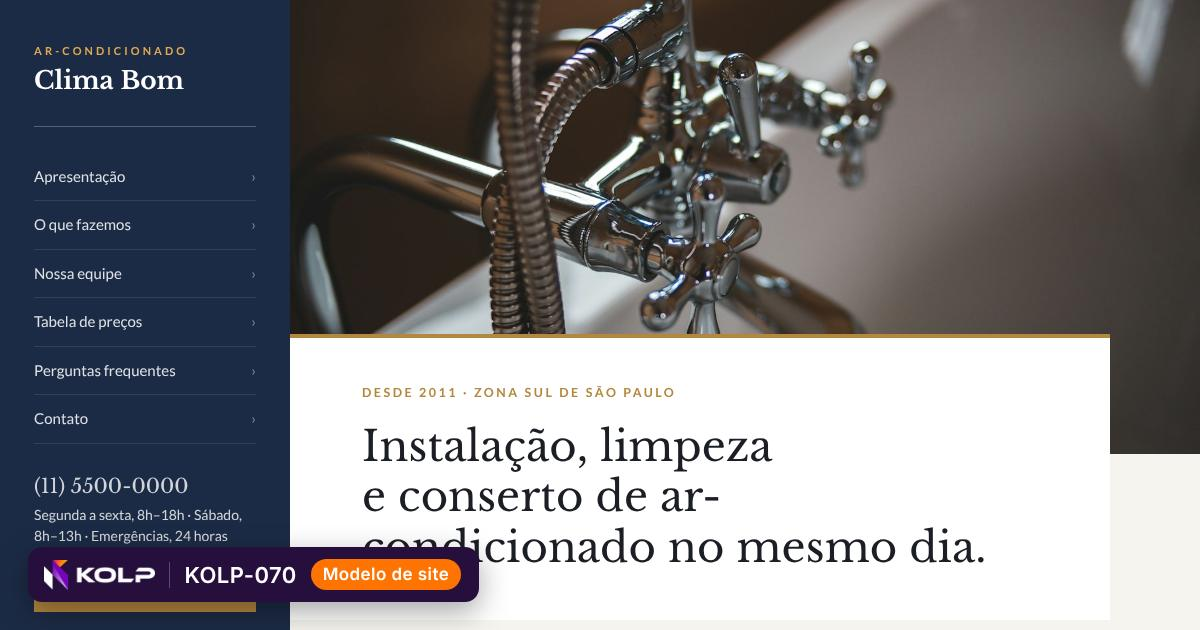
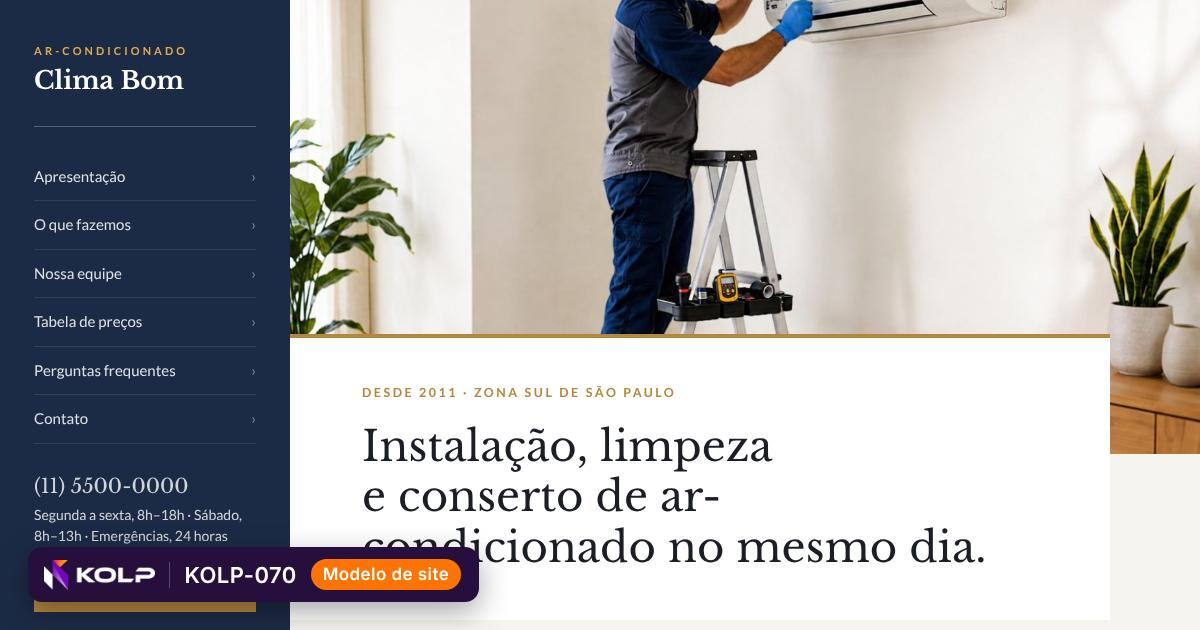
Bring servicos to 10 photos
Claude-Session: https://claude.ai/code/session_0151Yi9K8yWSyYvoKWm1KgPz

diff --git a/kolp-modelos/demo/servicos-07/index.html b/kolp-modelos/demo/servicos-07/index.html
@@ -35,7 +35,7 @@
       <p class="lide">Atendemos casas, apartamentos, lojas e condomínios, de segunda a sábado, com plantão para emergências.</p>
       <div class="acoes"><a class="botao" href="#contato">Pedir orçamento</a><a class="elo" href="#servicos">Ver serviços e preços</a></div>
     </div>
-    <figure class="arco"><img src="../../fotos/servicos/1.jpg" alt="" width="1400" height="930"><figcaption>Desde 2011</figcaption></figure>
+    <figure class="arco"><img src="../../fotos/servicos/7.jpg" alt="" width="1400" height="930"><figcaption>Desde 2011</figcaption></figure>
   </div>
   <div class="largura"><dl class="indices"><div><dd>13</dd><dt>anos de serviço</dt></div><div><dd>9.800</dd><dt>atendimentos realizados</dt></div><div><dd>2 h</dd><dt>tempo médio de chegada em emergências</dt></div><div><dd>4,9</dd><dt>nota média no Google</dt></div></dl></div>
   </section>
@@ -43,7 +43,7 @@
     <header class="topo rev"><h2>O que fazemos</h2><p>Uma equipe só para todos os reparos da casa ou do prédio.</p></header>
     <ol class="cartoes"><li class="rev"><h3>Elétrica</h3><p>Troca de disjuntores, tomadas, chuveiros, quadros de luz e instalação de luminárias.</p></li><li class="rev"><h3>Hidráulica</h3><p>Vazamentos, troca de registros, torneiras, válvulas e caixas acopladas.</p></li><li class="rev"><h3>Pintura</h3><p>Paredes, tetos, portas e fachadas, com proteção de móveis e pisos.</p></li><li class="rev"><h3>Montagem e instalação</h3><p>Móveis, prateleiras, suportes de TV, varais, cortinas e persianas.</p></li><li class="rev"><h3>Ar-condicionado</h3><p>Instalação, limpeza, recarga de gás e manutenção preventiva.</p></li><li class="rev"><h3>Pequenas reformas</h3><p>Banheiros, cozinhas, troca de piso e revestimento.</p></li></ol>
   </div></section>
-  <section class="faixa rev"><img src="../../fotos/servicos/2.jpg" alt="" width="1400" height="930" loading="lazy"><p>“Chegamos na hora marcada, deixamos tudo limpo e damos garantia por escrito”</p></section>
+  <section class="faixa rev"><img src="../../fotos/servicos/8.jpg" alt="" width="1400" height="930" loading="lazy"><p>“Chegamos na hora marcada, deixamos tudo limpo e damos garantia por escrito”</p></section>
   <section class="precos" id="precos"><div class="largura precos-grade">
     <div class="precos-lado rev"><h2>Tabela de preços</h2><p>Mão de obra de referência. Materiais são orçados à parte.</p><a class="botao" href="#contato">Pedir orçamento</a></div>
     <div class="rev"><details open><summary>Elétrica</summary><ul><li><div><b>Troca de chuveiro</b><span>Com teste de fiação</span></div><strong>R$ 120</strong></li><li><div><b>Instalação de luminária</b><span>Por ponto</span></div><strong>R$ 90</strong></li><li><div><b>Troca de disjuntor</b><span>Por unidade</span></div><strong>R$ 110</strong></li><li><div><b>Revisão do quadro de luz</b><span>Com laudo</span></div><strong>R$ 280</strong></li></ul></details><details><summary>Hidráulica</summary><ul><li><div><b>Reparo de vazamento</b><span>Aparente</span></div><strong>R$ 150</strong></li><li><div><b>Troca de torneira</b><span>Com vedação</span></div><strong>R$ 95</strong></li><li><div><b>Desentupimento</b><span>Pia ou ralo</span></div><strong>R$ 180</strong></li></ul></details><details><summary>Casa</summary><ul><li><div><b>Instalação de suporte de TV</b><span>Até 65 polegadas</span></div><strong>R$ 140</strong></li><li><div><b>Pintura de cômodo</b><span>Até 12 m²</span></div><strong>R$ 650</strong></li><li><div><b>Limpeza de ar-condicionado</b><span>Split até 12 mil BTUs</span></div><strong>R$ 190</strong></li></ul></details></div>

diff --git a/kolp-modelos/demo/servicos-08/index.html b/kolp-modelos/demo/servicos-08/index.html
@@ -34,17 +34,17 @@
     <p class="lide">A visita técnica é gratuita e o orçamento chega no mesmo dia pelo WhatsApp.</p>
     <div class="acoes"><a class="botao" href="#contato">Pedir orçamento</a><a class="elo" href="#servicos">Ver serviços e preços</a></div>
     <div class="mosaico">
-      <img class="m1" src="../../fotos/servicos/3.jpg" alt="" width="1400" height="930">
-      <img class="m2" src="../../fotos/servicos/2.jpg" alt="" width="1400" height="930">
-      <img class="m3" src="../../fotos/servicos/4.jpg" alt="" width="1400" height="930">
+      <img class="m1" src="../../fotos/servicos/9.jpg" alt="" width="1400" height="930">
+      <img class="m2" src="../../fotos/servicos/8.jpg" alt="" width="1400" height="930">
+      <img class="m3" src="../../fotos/servicos/10.jpg" alt="" width="1400" height="930">
       <p class="selo"><b>13</b>anos de serviço</p>
     </div>
   </div></section>
   <section class="pontos"><ul class="largura"><li class="rev">Visita técnica e orçamento gratuitos</li><li class="rev">Garantia de 90 dias por escrito</li><li class="rev">Plantão 24 horas para emergências</li></ul></section>
   <section class="servicos" id="servicos"><div class="largura">
     <header class="topo rev"><h2>O que fazemos</h2><p>Uma equipe só para todos os reparos da casa ou do prédio.</p></header>
-    <div class="par rev"><img src="../../fotos/servicos/5.jpg" alt="" width="1400" height="930" loading="lazy"><ul><li><h3>Elétrica</h3><p>Troca de disjuntores, tomadas, chuveiros, quadros de luz e instalação de luminárias.</p></li><li><h3>Hidráulica</h3><p>Vazamentos, troca de registros, torneiras, válvulas e caixas acopladas.</p></li><li><h3>Pintura</h3><p>Paredes, tetos, portas e fachadas, com proteção de móveis e pisos.</p></li></ul></div>
-    <div class="par par-inv rev"><img src="../../fotos/servicos/6.jpg" alt="" width="1400" height="930" loading="lazy"><ul><li><h3>Montagem e instalação</h3><p>Móveis, prateleiras, suportes de TV, varais, cortinas e persianas.</p></li><li><h3>Ar-condicionado</h3><p>Instalação, limpeza, recarga de gás e manutenção preventiva.</p></li><li><h3>Pequenas reformas</h3><p>Banheiros, cozinhas, troca de piso e revestimento.</p></li></ul></div>
+    <div class="par rev"><img src="../../fotos/servicos/1.jpg" alt="" width="1400" height="930" loading="lazy"><ul><li><h3>Elétrica</h3><p>Troca de disjuntores, tomadas, chuveiros, quadros de luz e instalação de luminárias.</p></li><li><h3>Hidráulica</h3><p>Vazamentos, troca de registros, torneiras, válvulas e caixas acopladas.</p></li><li><h3>Pintura</h3><p>Paredes, tetos, portas e fachadas, com proteção de móveis e pisos.</p></li></ul></div>
+    <div class="par par-inv rev"><img src="../../fotos/servicos/2.jpg" alt="" width="1400" height="930" loading="lazy"><ul><li><h3>Montagem e instalação</h3><p>Móveis, prateleiras, suportes de TV, varais, cortinas e persianas.</p></li><li><h3>Ar-condicionado</h3><p>Instalação, limpeza, recarga de gás e manutenção preventiva.</p></li><li><h3>Pequenas reformas</h3><p>Banheiros, cozinhas, troca de piso e revestimento.</p></li></ul></div>
   </div></section>
   <section class="precos" id="precos"><div class="largura">
     <header class="topo rev"><h2>Tabela de preços</h2><p>Mão de obra de referência. Materiais são orçados à parte.</p></header>

diff --git a/kolp-modelos/demo/servicos-10/index.html b/kolp-modelos/demo/servicos-10/index.html
@@ -30,7 +30,7 @@
 <div class="conteudo">
 <main>
   <section class="abertura">
-    <img src="../../fotos/servicos/4.jpg" alt="" width="1400" height="930">
+    <img src="../../fotos/servicos/10.jpg" alt="" width="1400" height="930">
     <div class="legenda"><p class="rotulo">Desde 2011 · Zona Sul de São Paulo</p><h1>Instalação, limpeza e conserto de ar-condicionado no mesmo dia.</h1></div>
   </section>
   <section class="sobre" id="sobre">
@@ -41,7 +41,7 @@
     <header class="topo"><h2>O que fazemos</h2><p>Uma equipe só para todos os reparos da casa ou do prédio.</p></header>
     <ul class="servicos"><li><h3>Elétrica</h3><p>Troca de disjuntores, tomadas, chuveiros, quadros de luz e instalação de luminárias.</p></li><li><h3>Hidráulica</h3><p>Vazamentos, troca de registros, torneiras, válvulas e caixas acopladas.</p></li><li><h3>Pintura</h3><p>Paredes, tetos, portas e fachadas, com proteção de móveis e pisos.</p></li><li><h3>Montagem e instalação</h3><p>Móveis, prateleiras, suportes de TV, varais, cortinas e persianas.</p></li><li><h3>Ar-condicionado</h3><p>Instalação, limpeza, recarga de gás e manutenção preventiva.</p></li><li><h3>Pequenas reformas</h3><p>Banheiros, cozinhas, troca de piso e revestimento.</p></li></ul>
   </section>
-  <figure class="citacao"><img src="../../fotos/servicos/5.jpg" alt="" width="1400" height="930" loading="lazy"><blockquote>“Chegamos na hora marcada, deixamos tudo limpo e damos garantia por escrito”</blockquote></figure>
+  <figure class="citacao"><img src="../../fotos/servicos/1.jpg" alt="" width="1400" height="930" loading="lazy"><blockquote>“Chegamos na hora marcada, deixamos tudo limpo e damos garantia por escrito”</blockquote></figure>
   <section id="equipe">
     <header class="topo"><h2>Nossa equipe</h2><p>Técnicos próprios, com registro e treinamento em normas de segurança.</p></header>
     <div class="equipe"><article><img src="../../fotos/retratos/m1.jpg" alt="Retrato de José Carlos Oliveira" width="560" height="680" loading="lazy"><div><h3>José Carlos Oliveira</h3><p class="cargo">Fundador e mestre de obras</p><p>Trinta anos de profissão. Ainda faz pessoalmente as visitas de reformas.</p></div></article><article><img src="../../fotos/retratos/m2.jpg" alt="Retrato de Marcos Oliveira" width="560" height="680" loading="lazy"><div><h3>Marcos Oliveira</h3><p class="cargo">Eletricista responsável</p><p>Técnico em eletrotécnica com certificação NR-10.</p></div></article><article><img src="../../fotos/retratos/f1.jpg" alt="Retrato de Patrícia Souza" width="560" height="680" loading="lazy"><div><h3>Patrícia Souza</h3><p class="cargo">Atendimento e agenda</p><p>É quem responde o seu WhatsApp e acompanha o serviço até o fim.</p></div></article></div>

diff --git a/kolp-modelos/demo/servicos-09/index.html b/kolp-modelos/demo/servicos-09/index.html
@@ -30,7 +30,7 @@
 </div></header>
 <main>
   <section class="abertura">
-    <img src="../../fotos/servicos/3.jpg" alt="" width="1400" height="930">
+    <img src="../../fotos/servicos/9.jpg" alt="" width="1400" height="930">
     <div class="abertura-bloco"><div>
       <p class="rotulo">Zona Sul de São Paulo</p>
       <h1>Vazamento encontrado sem quebrar a parede inteira.</h1>
@@ -51,7 +51,7 @@
     <header class="topo"><h2>Tabela de preços</h2><p>Mão de obra de referência. Materiais são orçados à parte.</p></header>
     <div class="tabela-rolagem"><table><tbody><tr class="grupo"><th colspan="3">Elétrica</th></tr><tr><th>Troca de chuveiro</th><td>Com teste de fiação</td><td>R$ 120</td></tr><tr><th>Instalação de luminária</th><td>Por ponto</td><td>R$ 90</td></tr><tr><th>Troca de disjuntor</th><td>Por unidade</td><td>R$ 110</td></tr><tr><th>Revisão do quadro de luz</th><td>Com laudo</td><td>R$ 280</td></tr></tbody><tbody><tr class="grupo"><th colspan="3">Hidráulica</th></tr><tr><th>Reparo de vazamento</th><td>Aparente</td><td>R$ 150</td></tr><tr><th>Troca de torneira</th><td>Com vedação</td><td>R$ 95</td></tr><tr><th>Desentupimento</th><td>Pia ou ralo</td><td>R$ 180</td></tr></tbody><tbody><tr class="grupo"><th colspan="3">Casa</th></tr><tr><th>Instalação de suporte de TV</th><td>Até 65 polegadas</td><td>R$ 140</td></tr><tr><th>Pintura de cômodo</th><td>Até 12 m²</td><td>R$ 650</td></tr><tr><th>Limpeza de ar-condicionado</th><td>Split até 12 mil BTUs</td><td>R$ 190</td></tr></tbody></table></div>
   </div></section>
-  <section class="prova"><img src="../../fotos/servicos/4.jpg" alt="" width="1400" height="930" loading="lazy">
+  <section class="prova"><img src="../../fotos/servicos/10.jpg" alt="" width="1400" height="930" loading="lazy">
     <blockquote><p>“Marcaram às nove e às nove estavam aqui. Trocaram o quadro de luz inteiro em uma manhã e ainda varreram a área de serviço antes de sair.”</p><footer><b>Luciana Prates</b> moradora do Campo Belo</footer></blockquote>
   </section>
   <section class="contato" id="contato"><div class="largura contato-grade">

diff --git a/kolp-modelos/demo/servicos-06/index.html b/kolp-modelos/demo/servicos-06/index.html
@@ -44,7 +44,7 @@
     <div><p class="frase rev">Chegamos na hora marcada, deixamos tudo limpo e damos garantia por escrito</p>
       <ol class="etapas"><li class="rev"><span>Etapa 1</span><h3>Você chama</h3><p>Pelo WhatsApp ou telefone, com fotos do problema se puder.</p></li><li class="rev"><span>Etapa 2</span><h3>Visita e orçamento</h3><p>O técnico avalia no local e envia o orçamento no mesmo dia, sem custo.</p></li><li class="rev"><span>Etapa 3</span><h3>Serviço com hora marcada</h3><p>Chegamos no horário, protegemos o ambiente e deixamos tudo limpo.</p></li><li class="rev"><span>Etapa 4</span><h3>Garantia</h3><p>Noventa dias por escrito. Se der problema, voltamos sem cobrar.</p></li></ol></div>
   </div></section>
-  <figure class="faixa-foto rev"><img src="../../fotos/servicos/1.jpg" alt="" width="1400" height="930" loading="lazy"></figure>
+  <figure class="faixa-foto rev"><img src="../../fotos/servicos/7.jpg" alt="" width="1400" height="930" loading="lazy"></figure>
   <section class="casos" id="resultados"><div class="largura bloco">
     <h2 class="rotulo">03 — Resultados</h2>
     <div><article class="rev"><p class="resultado">13<small>anos de serviço</small></p><div><h3>Constância</h3><p>Sete em cada dez chamados vêm de clientes que já nos contrataram antes.</p></div></article><article class="rev"><p class="resultado">9.800<small>atendimentos realizados</small></p><div><h3>Escala</h3><p>Doze técnicos próprios, sem terceirização.</p></div></article><article class="rev"><p class="resultado">2 h<small>tempo médio de chegada em emergências</small></p><div><h3>Rapidez</h3><p>Plantão com dois veículos equipados, todos os dias da semana.</p></div></article></div>

diff --git a/kolp-modelos/demo/servicos-05/index.html b/kolp-modelos/demo/servicos-05/index.html
@@ -52,7 +52,7 @@
       <a class="botao botao-grande" href="https://wa.me/5511999999999?text=Ol%C3%A1!%20Vim%20pelo%20site.">Pedir orçamento</a></div>
   </div></section>
   <section class="loja" id="local">
-    <img class="loja-fundo" src="../../fotos/servicos/1.jpg" alt="" width="1400" height="930" loading="lazy">
+    <img class="loja-fundo" src="../../fotos/servicos/7.jpg" alt="" width="1400" height="930" loading="lazy">
     <div class="largura loja-grade"><div class="cartao">
       <h2>Peça o seu orçamento sem compromisso</h2>
       <p class="endereco">Rua Vieira de Morais, 920 — Campo Belo, São Paulo</p>
